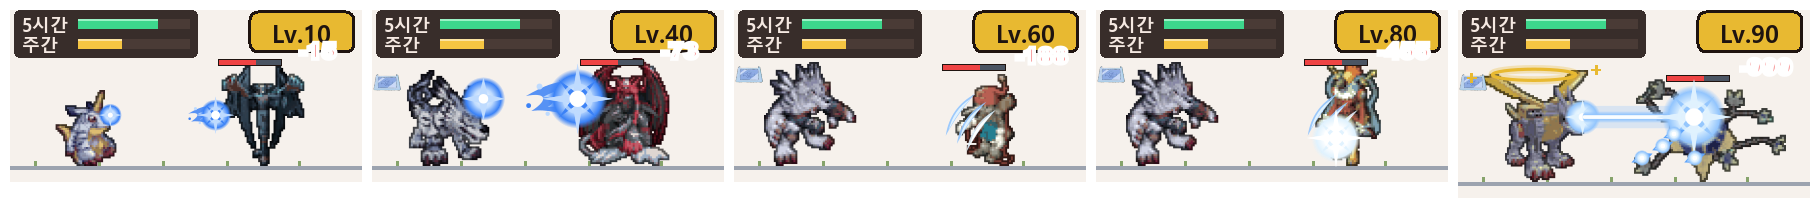
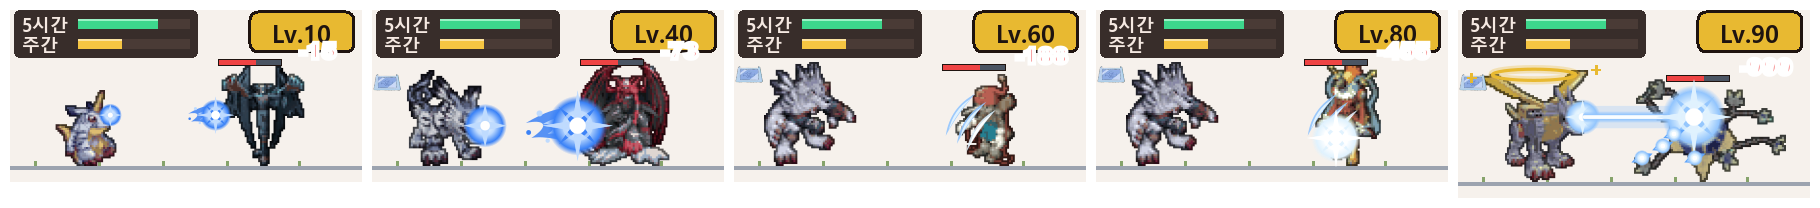
가루몬 폭스 파이어 발사 위치를 정수리에서 주둥이로
Claude-Session: https://claude.ai/code/session_015vVPi6o8smr54imLjnt6SH

Changed region(s): [[0.2462, 0.3173, 0.3385, 0.75]]

diff --git a/hooks/jobs/friendship.ts b/hooks/jobs/friendship.ts
@@ -14,7 +14,7 @@ export const friendship = makeLine({
   stages: [
   sprite('원뿔몬', FRIENDSHIP.tsunomon!, 5.5, { flip: false, mouth: [0.88, 0.6], fx: (t, from) => fx.bubble(from) }),
   sprite('파피몬', FRIENDSHIP.gabumon!, 9.5, { flip: false, mouth: [0.9, 0.33], fx: (t, from) => fx.blueFlame(from, t >= 2 ? 1.2 : 0.9) }),
-  sprite('가루몬', FRIENDSHIP.garurumon!, 12, { flip: false, mouth: [0.93, 0.3], fx: (t, from) => fx.blueFlame(from, 1.7) }),
+  sprite('가루몬', FRIENDSHIP.garurumon!, 12, { flip: false, mouth: [0.95, 0.58], fx: (t, from) => fx.blueFlame(from, 1.7) }),
   sprite('워가루몬', FRIENDSHIP.weregarurumon!, 13, { flip: false, mouth: [0.85, 0.4], melee: true, fx: (t, from) => fx.strike('#93C5FD', '#E0F2FE', true) + (t >= 8 ? fx.impact('#E0F2FE', 30, 9.5, 1.4) : '') }),
   sprite('메탈가루몬', FRIENDSHIP.metalgarurumon!, 14, { flip: false, mouth: [0.95, 0.42], fx: (t, from) => fx.cocytus(from) }),
   ],

diff --git a/preview/gen-lines.py b/preview/gen-lines.py
@@ -52,7 +52,7 @@ LINES = [
   [('koromon','코로몬',5.5,{'flip':False,'mouth':(0.82,0.62)}),('agumon','아구몬',9.5,{'flip':False,'mouth':(0.9,0.36)}),('greymon','그레이몬',13,{'flip':False,'mouth':(0.93,0.3)}),('metalgreymon','메탈그레이몬',14,{'flip':False,'mouth':(0.62,0.55)}),('wargreymon','워그레이몬',13,{'flip':False,'mouth':(0.55,0.03)})],
   ['','아구몬으로 진화','페퍼 브레스','용기의 문장','그레이몬으로 진화','메가 플레임','메탈그레이몬으로 초진화','기가 디스트로이어','트라이던트 암','워그레이몬으로 궁극진화','가이아 포스·무지개 후광']),
  ('friendship','우정','🐺','ice',False,
-  [('tsunomon','원뿔몬',5.5,{'flip':False,'mouth':(0.88,0.6)}),('gabumon','파피몬',9.5,{'flip':False,'mouth':(0.9,0.33)}),('garurumon','가루몬',12,{'flip':False,'mouth':(0.93,0.3)}),('weregarurumon','워가루몬',13,{'flip':False,'mouth':(0.85,0.4)}),('metalgarurumon','메탈가루몬',14,{'flip':False,'mouth':(0.95,0.42)})],
+  [('tsunomon','원뿔몬',5.5,{'flip':False,'mouth':(0.88,0.6)}),('gabumon','파피몬',9.5,{'flip':False,'mouth':(0.9,0.33)}),('garurumon','가루몬',12,{'flip':False,'mouth':(0.95,0.58)}),('weregarurumon','워가루몬',13,{'flip':False,'mouth':(0.85,0.4)}),('metalgarurumon','메탈가루몬',14,{'flip':False,'mouth':(0.95,0.42)})],
   ['','파피몬으로 진화','블루 블래스터','우정의 문장','가루몬으로 진화','폭스 파이어','워가루몬으로 초진화','카이저 네일','가루루 킥','메탈가루몬으로 궁극진화','코큐토스 브레스·무지개 후광']),
  ('love','사랑','❤','fire',False,
   [('pyocomon','뿌카몬',5.5,{'flip':False,'mouth':(0.82,0.7)}),('piyomon','피요몬',9,{'flip':False,'mouth':(0.74,0.34)}),('birdramon','버드라몬',12,{'flip':False,'mouth':(0.9,0.28)}),('garudamon','가루다몬',14,{'flip':False,'mouth':(0.7,0.38)}),('hououmon','피닉스몬',13,{'flip':False,'mouth':(0.92,0.32)})],
